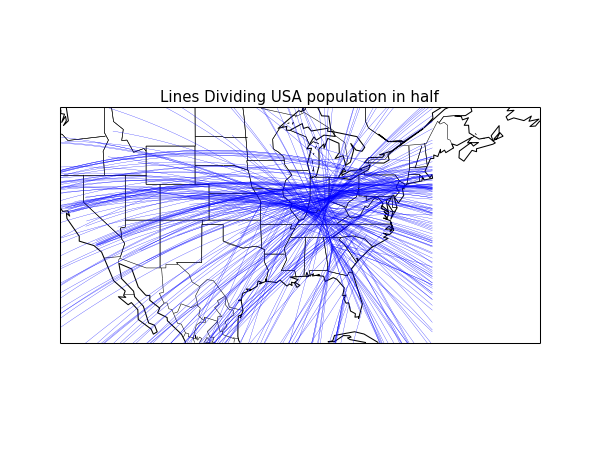
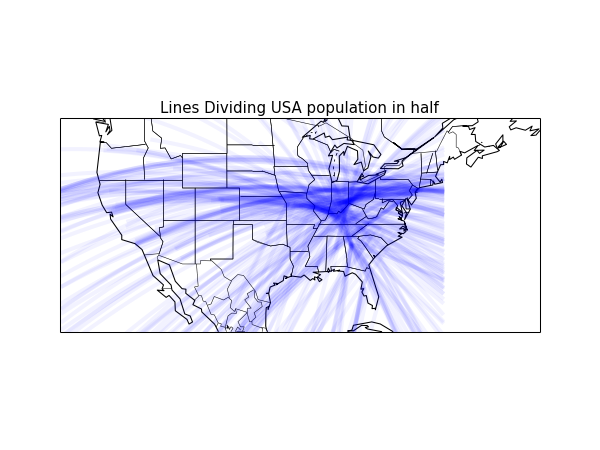
increased line thickness, decreased alpha, poc for heatmap"

Changed region(s): [[0.09, 0.1867, 0.9, 0.7778], [0.09, 0.2178, 0.12, 0.28]]

diff --git a/drawmap.py b/drawmap.py
@@ -89,7 +89,7 @@ def intersection(circle1, circle2):
 fig = plt.figure()
 ax = fig.add_axes([0.1,0.1,0.8,0.8])
 #setup base map
-m = Basemap(llcrnrlon=-123.4,llcrnrlat=21.77,urcrnrlon=-54.55,urcrnrlat=48.79,\
+m = Basemap(llcrnrlon=-130.4,llcrnrlat=21.77,urcrnrlon=-54.55,urcrnrlat=48.79,\
            	projection='merc',\
             lat_0=90.,lon_0=-90.)
 # transform to nx x ny regularly spaced 5km native projection grid
@@ -123,16 +123,16 @@ for row in data:
 
 	try:
 		if lon1>lon2:
-			m.drawgreatcircle(-70.,right_coords[0],lon2,lat2, linewidth=.25, color='b', markerfacecolor='b')
+			m.drawgreatcircle(-70.,right_coords[0],lon2,lat2, linewidth=4, color='b', alpha = .05,markerfacecolor='b')
 			#m.drawgreatcircle(-80.,right_coords2[0],lon2,lat2, linewidth=.25, color='b', markerfacecolor='b')
 		else:
-			m.drawgreatcircle(-70.,right_coords[0],lon1,lat1, linewidth=.25, color='b', markerfacecolor='b')
+			m.drawgreatcircle(-70.,right_coords[0],lon1,lat1, linewidth=4, color='b', alpha = .05,markerfacecolor='b')
 
 		if lon1<lon2:
-			m.drawgreatcircle(-130.,left_coords[0],lon2,lat2, linewidth=.25, color='b', markerfacecolor='b')
+			m.drawgreatcircle(-130.,left_coords[0],lon2,lat2, linewidth=4, color='b', alpha = .05,markerfacecolor='b')
 			#m.drawgreatcircle(-80.,right_coords2[0],lon2,lat2, linewidth=.25, color='b', markerfacecolor='b')
 		else:
-			m.drawgreatcircle(-130.,left_coords[0],lon1,lat1, linewidth=.25, color='b', markerfacecolor='b')
+			m.drawgreatcircle(-130.,left_coords[0],lon1,lat1, linewidth=4, color='b', alpha = .05,markerfacecolor='b')
 			#m.drawgreatcircle(-80.,right_coords2[0],lon1,lat1, linewidth=.25, color='b', markerfacecolor='b')
 		#m.drawgreatcircle(-120,left_coords[0],lon1,lat1, linewidth=.5, color='r', markerfacecolor='b')
 		#m.drawgreatcircle(lon2,lat2,lon1,lat1,linewidth=.25, color='r', markerfacecolor='b')
